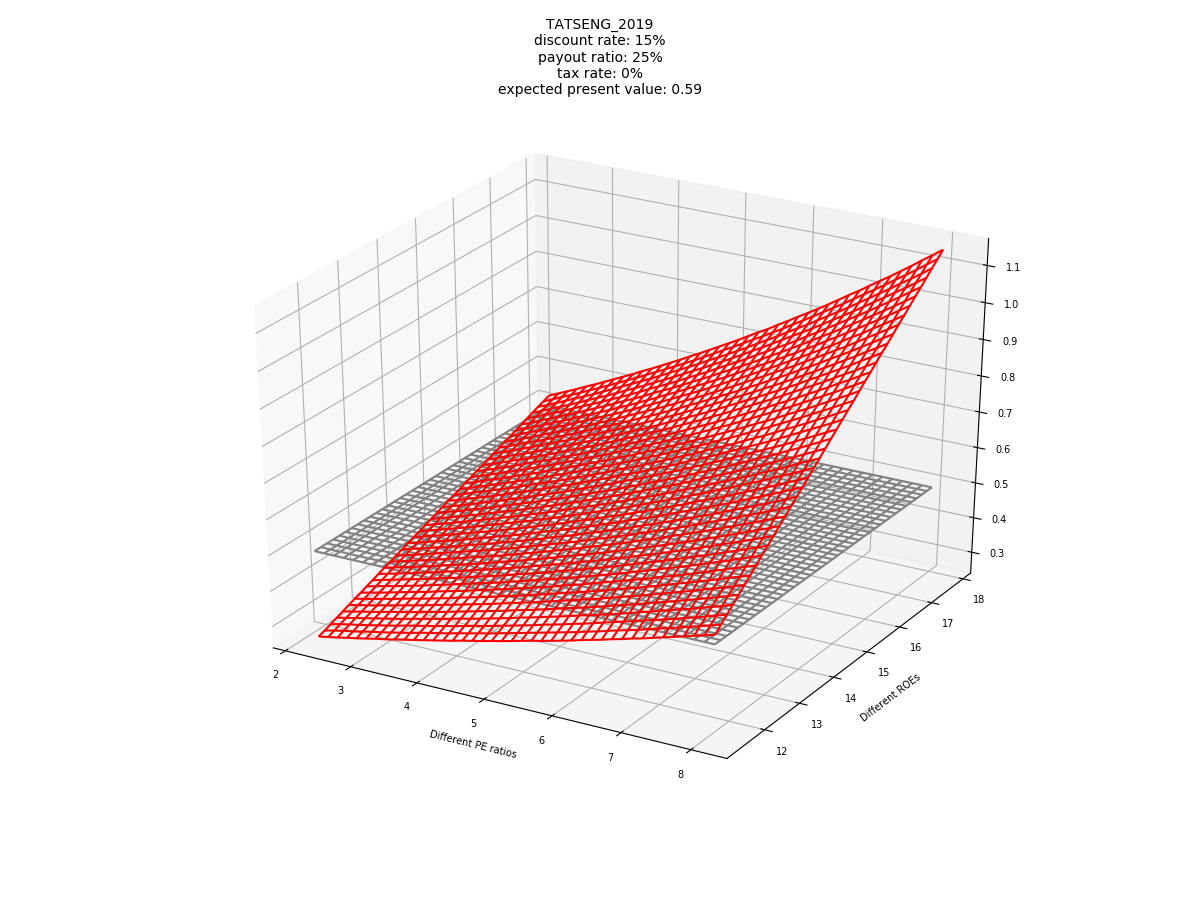
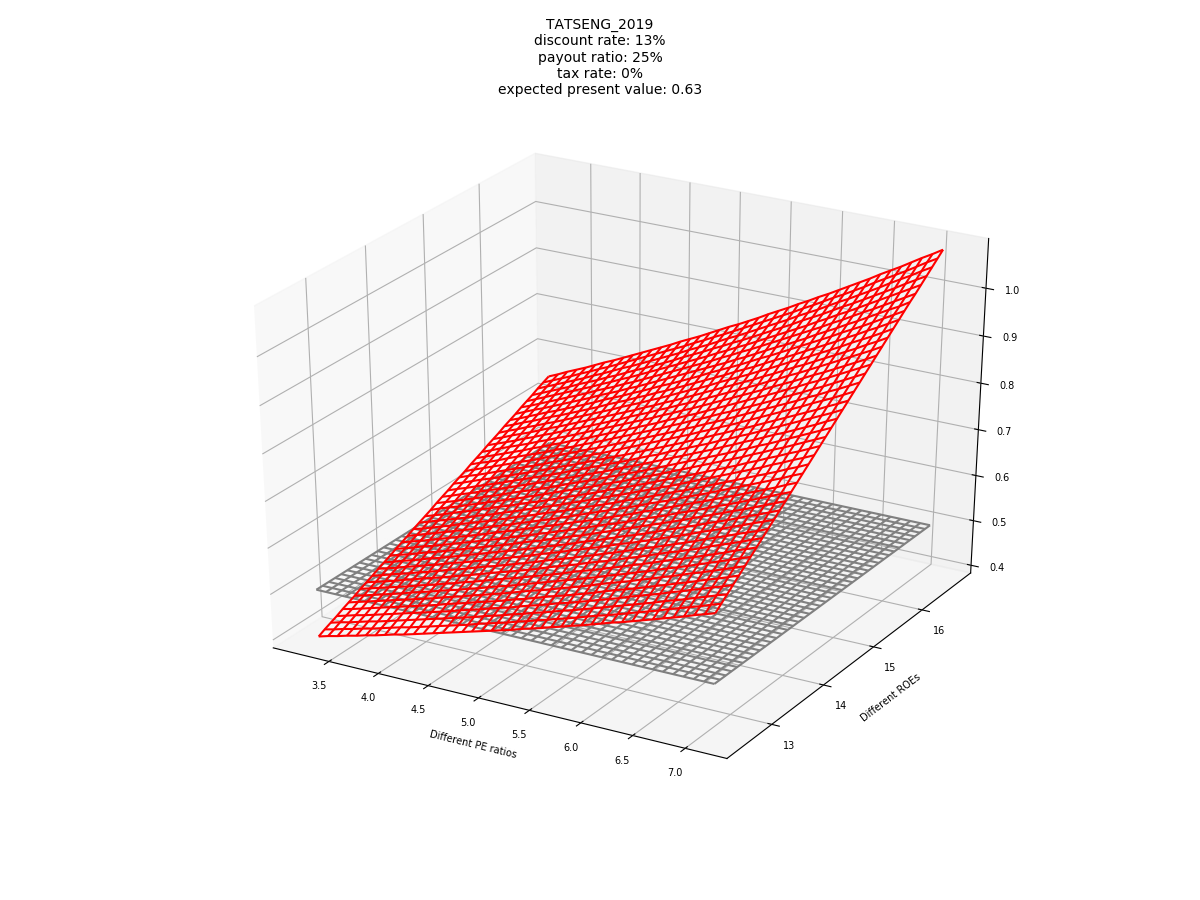
analysed tat seng

Changed region(s): [[0.2467, 0.1867, 0.8325, 0.8089], [0.8325, 0.4044, 0.8633, 0.4356], [0.8325, 0.3111, 0.8633, 0.3422]]

diff --git a/stock_screener.py b/stock_screener.py
@@ -8,10 +8,10 @@ import main_functions_wrapper as main
 '''
 =========Key in parameters here==========
 '''
-estimated_roe = 13
+estimated_roe = 13.5
 estimated_pe = 5
 estimated_payout_ratio = 25
-dcf_rate = 15
+dcf_rate = 13
 div_taxrate = 0
 currentprice = 0.5
 years2project = 10
@@ -62,7 +62,7 @@ if __name__ == "__main__":
                                        bollinger_compensation=bollinger_compensation,
                                        projectionyear=predictionyear,
                                        taxrate=div_taxrate,
-                                       std_multiplier=3,
+                                       std_multiplier=2,
                                        years2project=years2project)
       
       #main.plotter.plot_countour(prices['pe_steps'],prices['roe_steps'],prices['presentvalues'])

diff --git a/math_tools.py b/math_tools.py
@@ -100,8 +100,8 @@ def generate_2axis_norm_dist(xmean, xstd, ymean, ystd, resolution=20, width_of_b
       yvals: list of yvalues on 2nd axis of normal distribution
       zvals: list of zvalues outputs of normal dist
    '''
-   xvals, zvals1 = generate_single_norm_dist(mean=xmean, std=xstd, resolution=resolution)
-   yvals, zvals2 = generate_single_norm_dist(mean=ymean, std=ystd, resolution=resolution)
+   xvals, zvals1 = generate_single_norm_dist(mean=xmean, std=xstd, resolution=resolution, width_of_bell=width_of_bell)
+   yvals, zvals2 = generate_single_norm_dist(mean=ymean, std=ystd, resolution=resolution, width_of_bell=width_of_bell)
    
    xlength = xvals.shape[0]
    ylength = yvals.shape[0]
